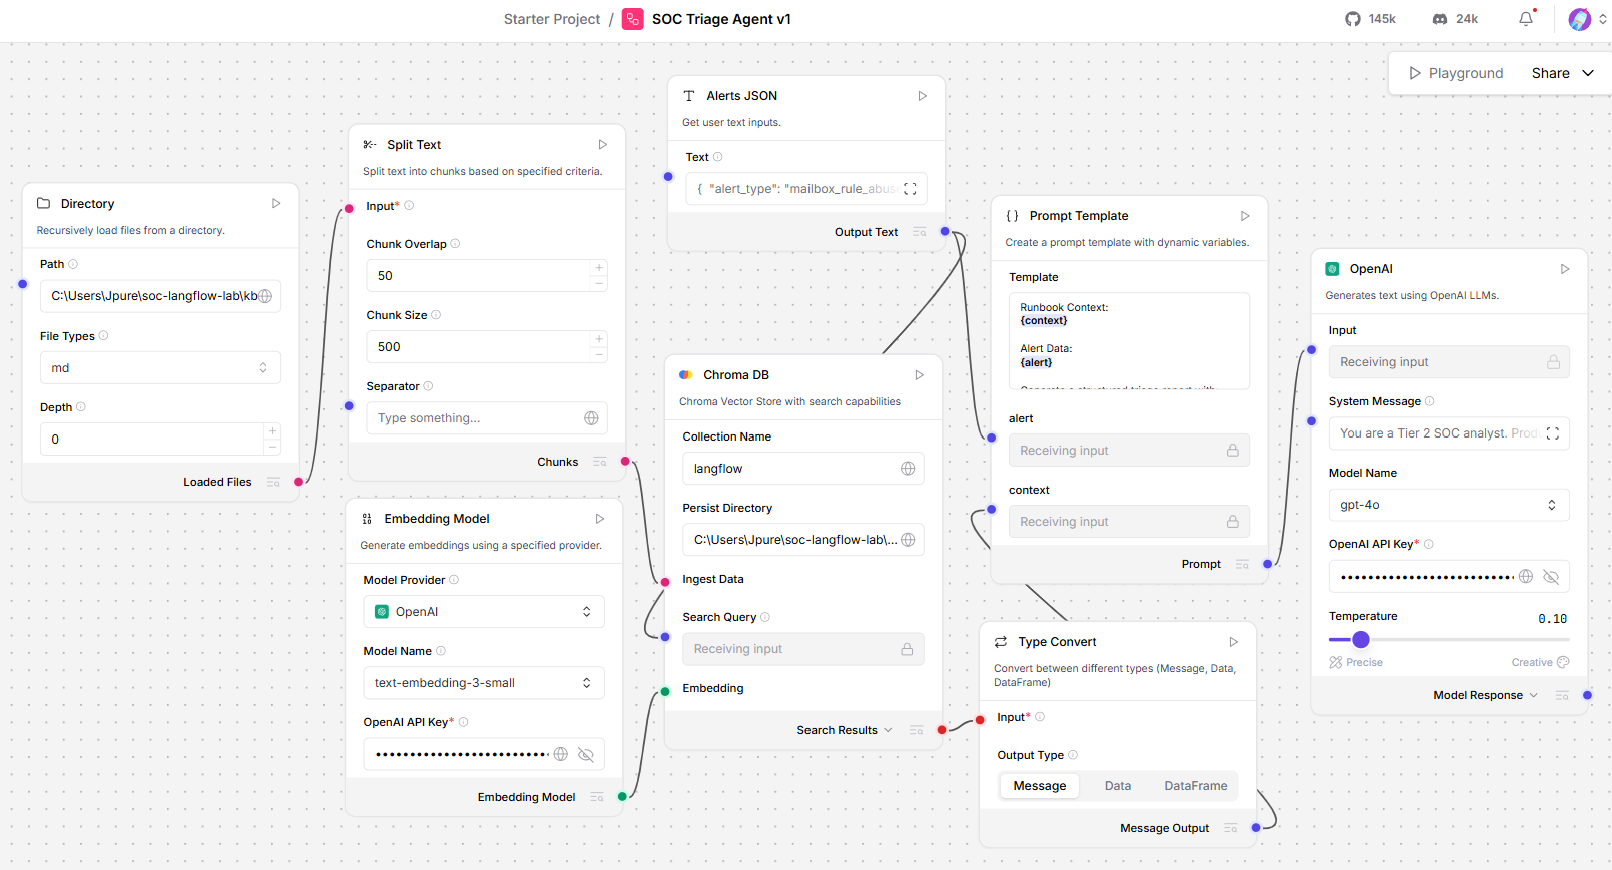
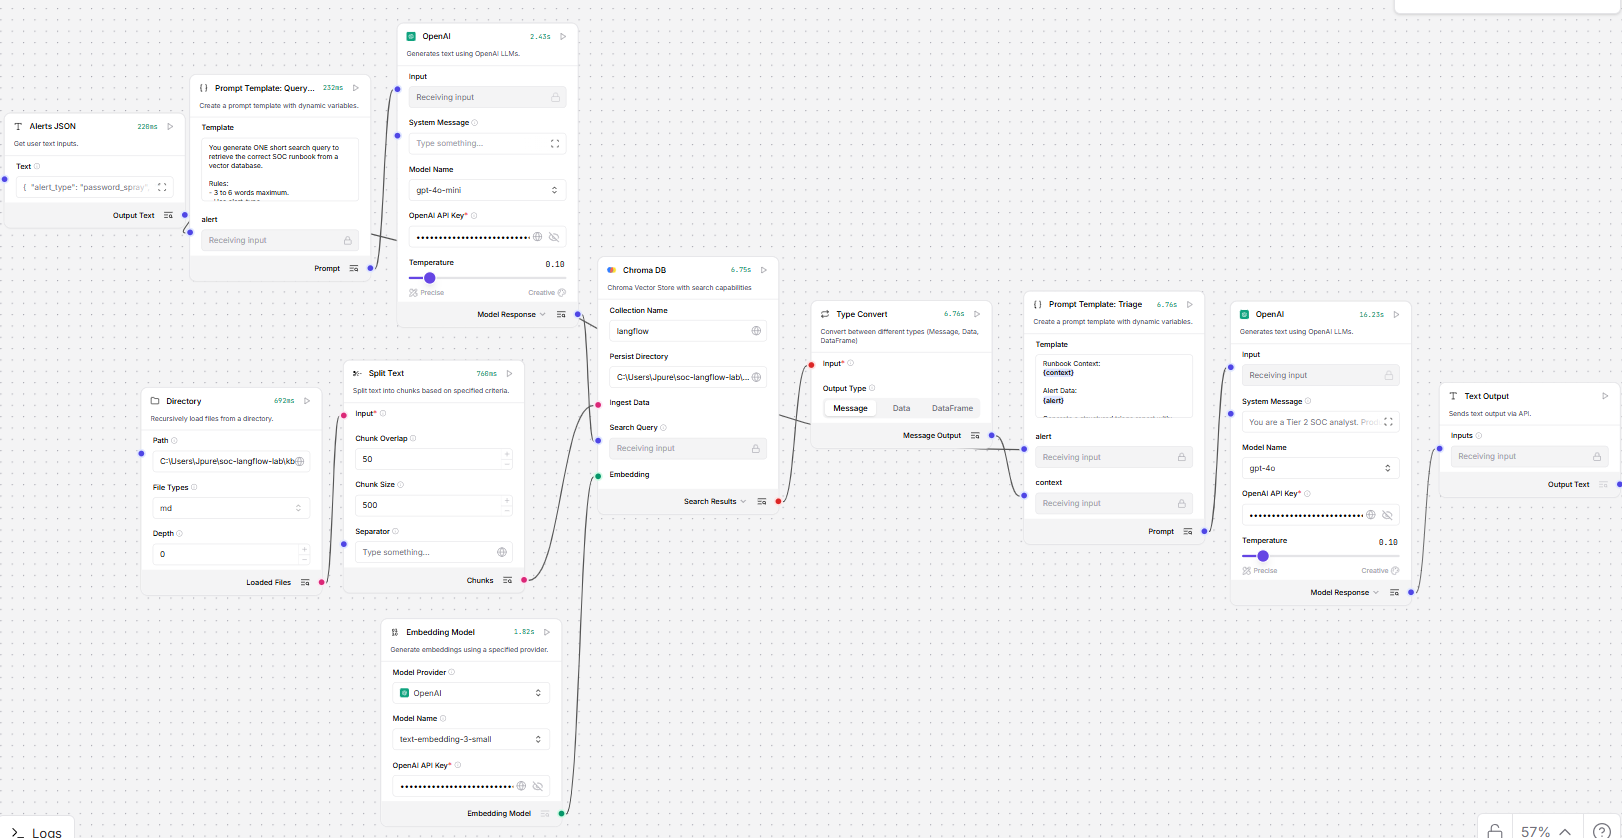
Update architecture with Query Builder flow
- Add Query Builder component (gpt-4o-mini, 3-6 word queries)
- Update Langflow pipeline diagram with dual-path architecture
- Add new screenshot showing full flow
- Move Query Builder from "in progress" to "implemented"
- Expand component table with all pipeline nodes

diff --git a/README.md b/README.md
@@ -26,13 +26,13 @@ Security Operations Centers face alert fatigue and inconsistent triage quality. 
 - Sentinel alert ingestion via Log Analytics API (service principal auth)
 - Langflow RAG pipeline with runbook retrieval
 - ChromaDB vector store with 6 security runbooks
+- Deterministic query builder (gpt-4o-mini generates 3-6 word search queries)
 - MITRE ATT&CK mapping per alert
 - Confidence scoring
 - Basic containment action suggestions
 
 **In Progress:**
 
-- Deterministic alert-to-retrieval query generation
 - Strict JSON schema enforcement for all outputs
 - Output normalization
 - Sentinel-specific KQL query generation (read-only)
@@ -81,20 +81,55 @@ Security Operations Centers face alert fatigue and inconsistent triage quality. 
 
 ### Langflow RAG Pipeline
 
+![Langflow Architecture](docs/langflow_architecture.png)
+
+**KB Ingestion Path** (runs once):
+```
+Directory (kb/) → Split Text → Embedding Model → Chroma DB
+```
+
+**Runtime Path** (per alert):
+```
+Alerts JSON ──┬────────────────────────────────────→ Triage Prompt {alert}
+              │                                              │
+              ▼                                              │
+      Query Builder Prompt                                   │
+      ("3-6 word search query")                              │
+              │                                              │
+              ▼                                              │
+      OpenAI (gpt-4o-mini)                                   │
+              │                                              │
+              ▼                                              │
+      Chroma DB (search) → Results → Type Convert → Triage Prompt {context}
+                                                             │
+                                                             ▼
+                                                     OpenAI (gpt-4o)
+                                                             │
+                                                             ▼
+                                                       Triage Output
+```
+
+### Components
+
 | Component | Type | Configuration | Purpose |
 |-----------|------|---------------|---------|
 | **Directory** | File Loader | Path: `kb/`, Depth: 0 | Load runbook markdown files |
-| **Split Text** | Text Splitter | Chunk: 500, Overlap: 50 | Split runbooks into retrievable chunks |
-| **Chroma DB** | Vector Store | Collection: `langflow` | Store and search runbook embeddings |
-| **OpenAI** | LLM | Model: `gpt-4o`, Temp: 0.10 | Generate triage analysis |
+| **Split Text** | Text Splitter | Chunk: 500, Overlap: 50 | Split runbooks into chunks |
+| **Embedding Model** | OpenAI Embeddings | `text-embedding-3-small` | Generate vector embeddings |
+| **Chroma DB** | Vector Store | Collection: `langflow` | Store and search runbooks |
+| **Query Builder** | Prompt Template | "3-6 words maximum" | Generate deterministic search query |
+| **OpenAI (QB)** | LLM | `gpt-4o-mini`, Temp: 0.10 | Fast query generation |
+| **Type Convert** | Data Converter | Output: Message | Convert search results |
+| **Triage Prompt** | Prompt Template | `{context}`, `{alert}` | Build triage prompt |
+| **OpenAI (Triage)** | LLM | `gpt-4o`, Temp: 0.10 | Generate triage analysis |
 
 ### Data Flow
 
 1. **Poll**: `incident_poller.py` queries Sentinel for `SecurityIncident` records
 2. **Normalize**: Raw incidents converted to structured alert JSON
-3. **Route**: Alert type inferred from title and MITRE techniques
-4. **Retrieve**: Langflow queries ChromaDB for relevant runbook chunks
-5. **Generate**: LLM produces triage report with recommended actions
+3. **Query Build**: Alert passed to Query Builder LLM to generate 3-6 word search query
+4. **Retrieve**: Deterministic query searches ChromaDB for relevant runbook chunks
+5. **Generate**: Triage LLM produces structured report with runbook context
 6. **Output**: Report saved to `outputs/` directory
 
 ---
